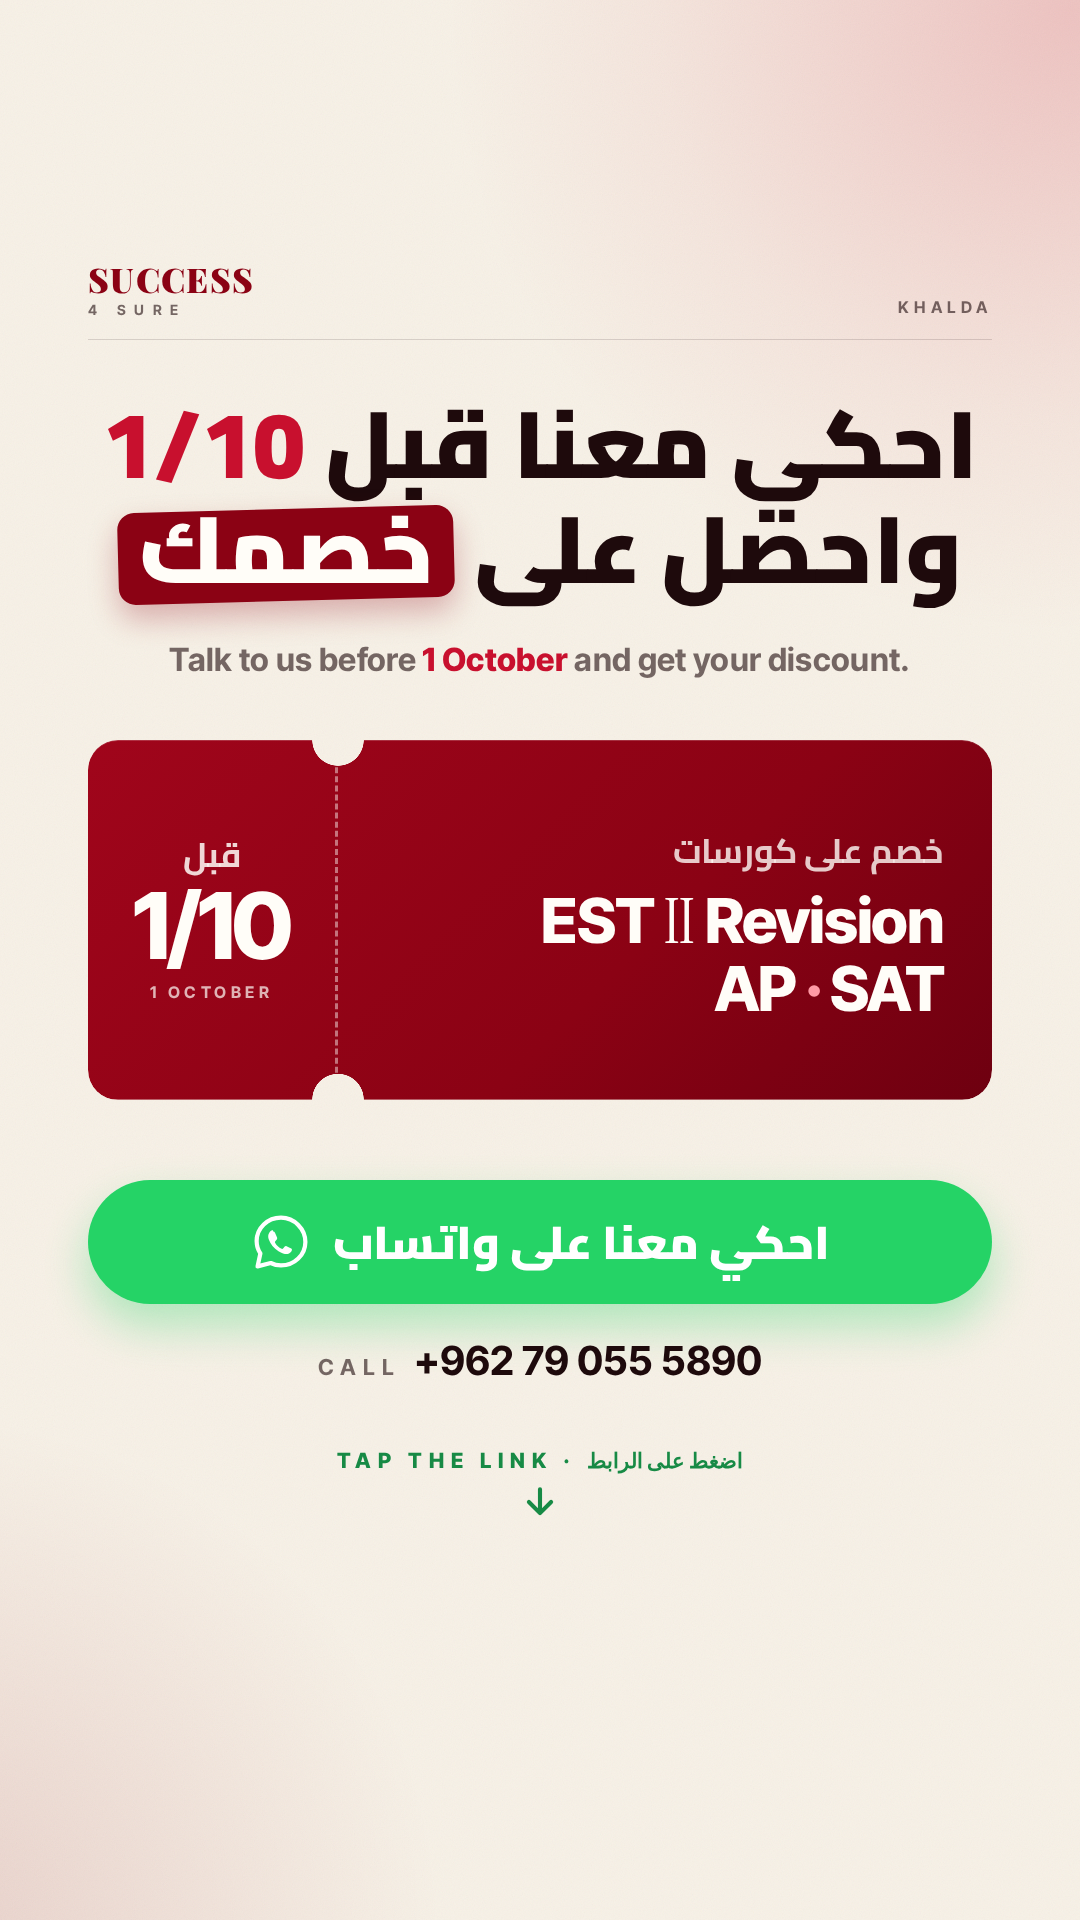
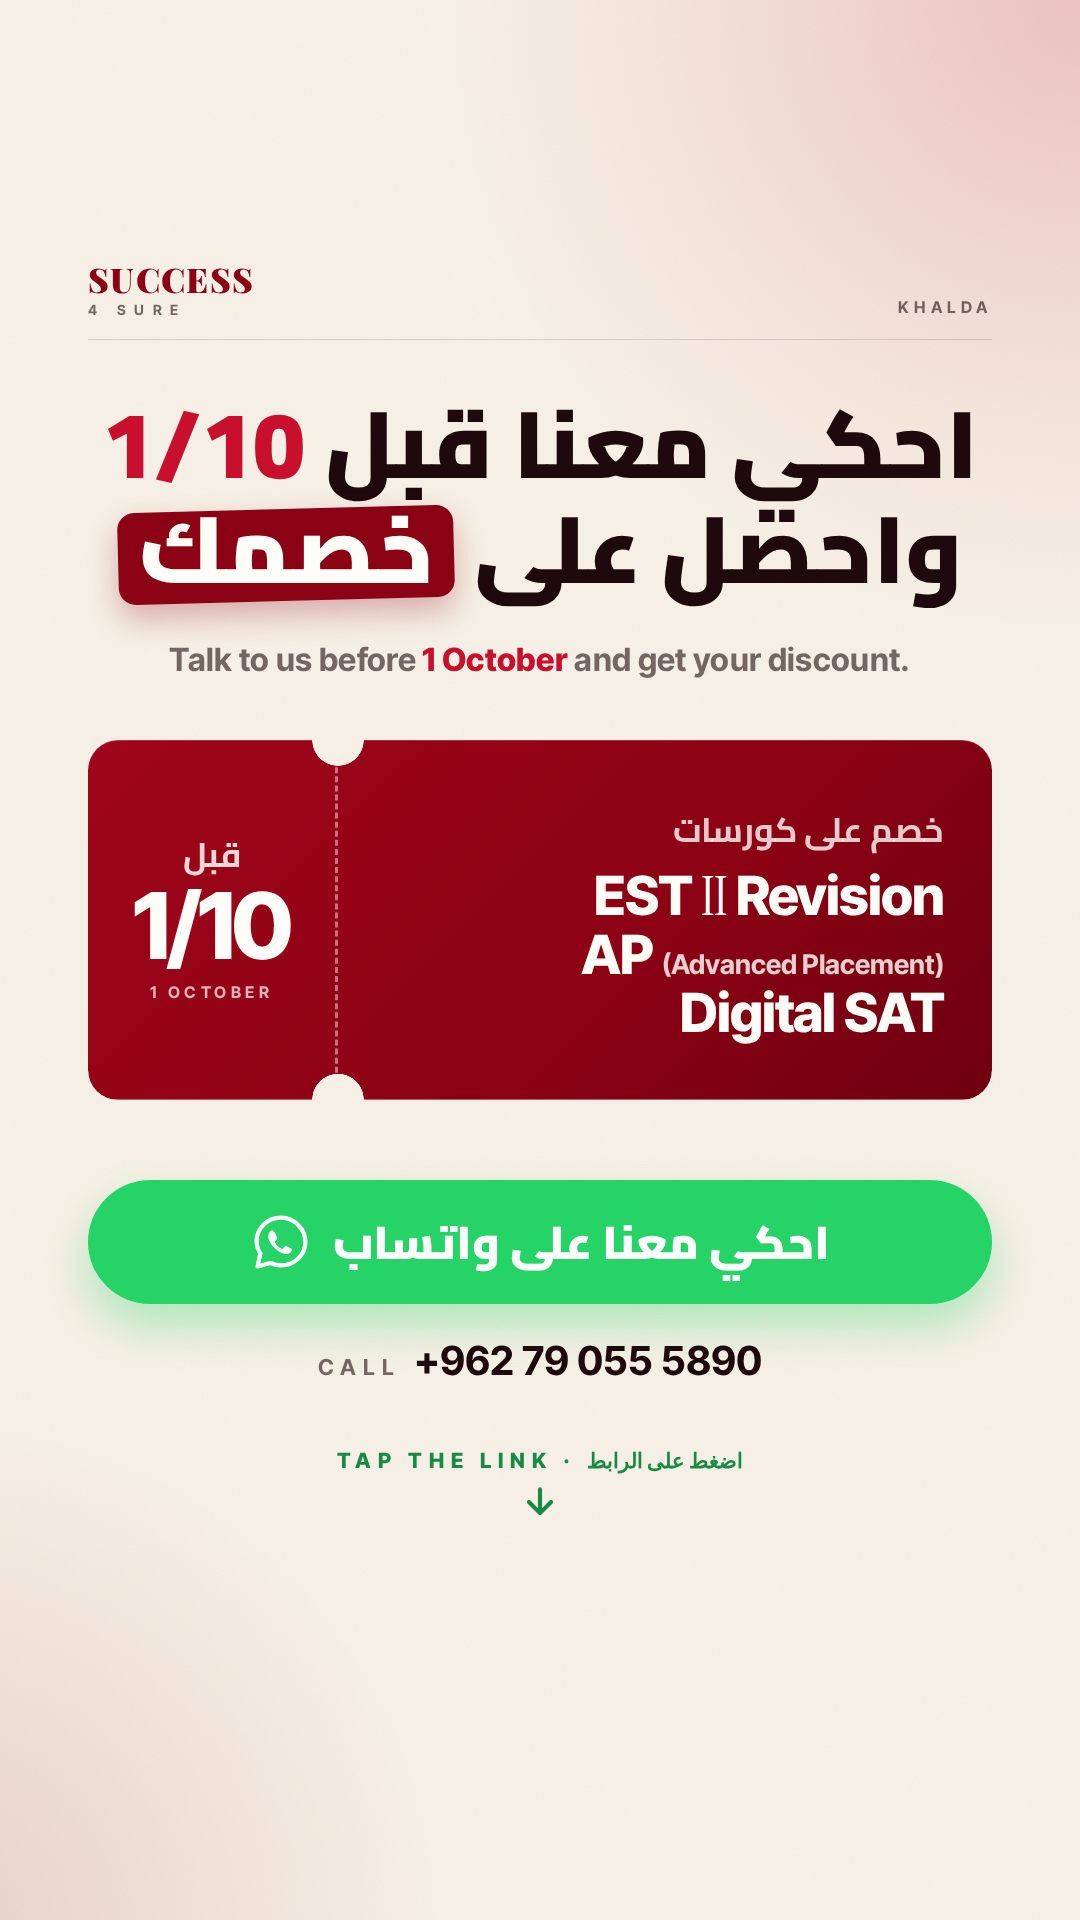
Success4Sure offer: coupon lines AP (Advanced Placement) and Digital SAT
Claude-Session: https://claude.ai/code/session_01XVyDmKozJXT5EHdn3Qh8m2

Changed region(s): [[0.4889, 0.4062, 0.8861, 0.5625]]

diff --git a/LogicLoop/04_Projects/Clients/Success4Sure_Khalda/Offer_Before_1Oct/post_offer.html b/LogicLoop/04_Projects/Clients/Success4Sure_Khalda/Offer_Before_1Oct/post_offer.html
@@ -44,6 +44,7 @@
   .coupon .main { padding: 0 48px 0 36px; display: flex; flex-direction: column; justify-content: center; }
   .coupon .lab { font-family: Cairo; font-weight: 700; font-size: 34px; color: rgba(255,253,248,.8); }
   .coupon .progs { direction: ltr; text-align: right; font-weight: 800; letter-spacing: -.02em; line-height: 1.05; margin-top: 6px; }
+  .coupon .progs small { font-size: .5em; font-weight: 700; letter-spacing: 0; color: rgba(255,253,248,.82); }
   .coupon .progs .rn { font-family: ISR; font-weight: 400; letter-spacing: 0; }
   .coupon .progs i { font-style: normal; color: #FF9AA5; padding: 0 .12em; }
   .coupon .stub { border-right: 3px dashed rgba(255,253,248,.45); display: flex; flex-direction: column; align-items: center; justify-content: center; }
@@ -63,7 +64,7 @@
   .hl { top: 186px; font-size: 90px; }
   .en { top: 420px; font-size: 32px; }
   .coupon { top: 508px; height: 330px; }
-  .coupon .progs { font-size: 62px; }
+  .coupon .progs { font-size: 54px; line-height: 1.08; }
   .cta { top: 900px; height: 118px; } .cta .t { font-size: 44px; }
   .num { top: 1058px; font-size: 40px; }
   .foot { position: absolute; left: var(--m); right: var(--m); bottom: 64px; text-align: center; font-family: Cairo; font-weight: 700; font-size: 26px; color: var(--muted); direction: rtl; }
@@ -73,7 +74,7 @@
   <div class="hl"><div class="l1">احكي معنا قبل <span class="date">1/10</span></div><div class="l2">واحصل على <span class="mark">خصمك</span></div></div>
   <div class="en">Talk to us before <b>1 October</b> and get your discount.</div>
   <div class="coupon">
-    <div class="main"><div class="lab">خصم على كورسات</div><div class="progs">EST <span class="rn">II</span> Revision<br>AP<i>·</i>SAT</div></div>
+    <div class="main"><div class="lab">خصم على كورسات</div><div class="progs">EST <span class="rn">II</span> Revision<br>AP <small>(Advanced Placement)</small><br>Digital SAT</div></div>
     <div class="stub"><div class="a">قبل</div><div class="b">1/10</div><div class="c2">1 OCTOBER</div></div>
   </div>
   <div class="cta"><span class="t">احكي معنا على واتساب</span><svg width="58" height="58" viewBox="0 0 64 64" aria-hidden="true">

diff --git a/LogicLoop/04_Projects/Clients/Success4Sure_Khalda/Offer_Before_1Oct/story_offer.html b/LogicLoop/04_Projects/Clients/Success4Sure_Khalda/Offer_Before_1Oct/story_offer.html
@@ -44,6 +44,7 @@
   .coupon .main { padding: 0 48px 0 36px; display: flex; flex-direction: column; justify-content: center; }
   .coupon .lab { font-family: Cairo; font-weight: 700; font-size: 34px; color: rgba(255,253,248,.8); }
   .coupon .progs { direction: ltr; text-align: right; font-weight: 800; letter-spacing: -.02em; line-height: 1.05; margin-top: 6px; }
+  .coupon .progs small { font-size: .5em; font-weight: 700; letter-spacing: 0; color: rgba(255,253,248,.82); }
   .coupon .progs .rn { font-family: ISR; font-weight: 400; letter-spacing: 0; }
   .coupon .progs i { font-style: normal; color: #FF9AA5; padding: 0 .12em; }
   .coupon .stub { border-right: 3px dashed rgba(255,253,248,.45); display: flex; flex-direction: column; align-items: center; justify-content: center; }
@@ -63,7 +64,7 @@
   .hl { top: 392px; font-size: 94px; }
   .en { top: 640px; font-size: 32px; }
   .coupon { top: 740px; height: 360px; }
-  .coupon .progs { font-size: 62px; }
+  .coupon .progs { font-size: 54px; line-height: 1.08; }
   .cta { top: 1180px; height: 124px; } .cta .t { font-size: 46px; }
   .num { top: 1336px; font-size: 40px; }
   .tap { position: absolute; top: 1448px; left: 0; right: 0; text-align: center; font-weight: 800; font-size: 21px; letter-spacing: .32em; color: #178A45; }
@@ -77,7 +78,7 @@
   <div class="hl"><div class="l1">احكي معنا قبل <span class="date">1/10</span></div><div class="l2">واحصل على <span class="mark">خصمك</span></div></div>
   <div class="en">Talk to us before <b>1 October</b> and get your discount.</div>
   <div class="coupon">
-    <div class="main"><div class="lab">خصم على كورسات</div><div class="progs">EST <span class="rn">II</span> Revision<br>AP<i>·</i>SAT</div></div>
+    <div class="main"><div class="lab">خصم على كورسات</div><div class="progs">EST <span class="rn">II</span> Revision<br>AP <small>(Advanced Placement)</small><br>Digital SAT</div></div>
     <div class="stub"><div class="a">قبل</div><div class="b">1/10</div><div class="c2">1 OCTOBER</div></div>
   </div>
   <div class="cta"><span class="t">احكي معنا على واتساب</span><svg width="60" height="60" viewBox="0 0 64 64" aria-hidden="true">
